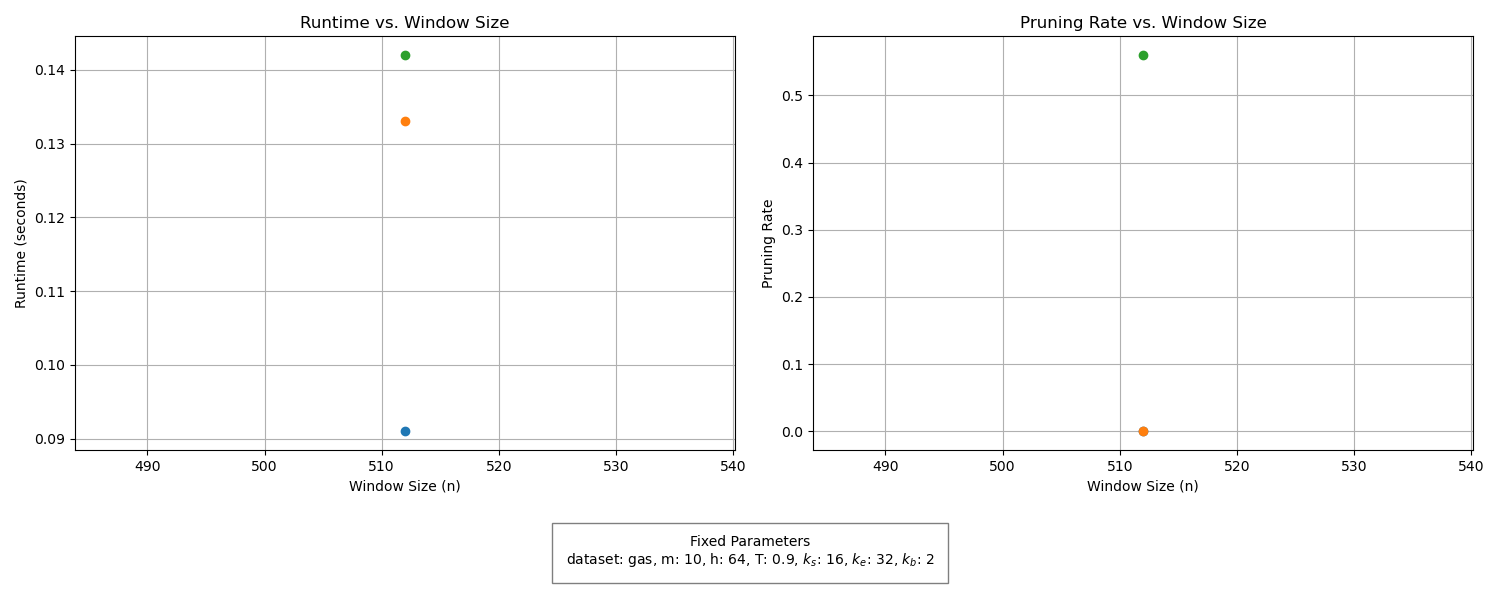
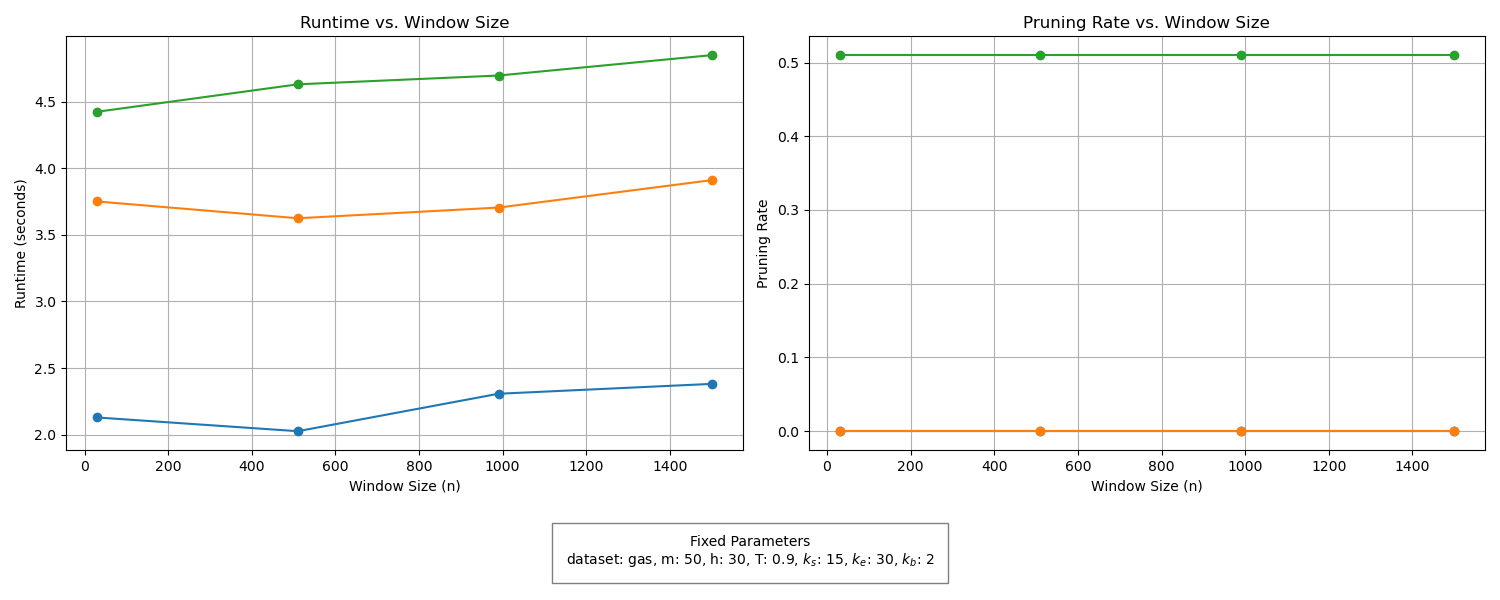
feat: automatic run, gas data, runtime vs. T, n and pr vs. T,n

diff --git a/code/brute_force_implementation/main.py b/code/brute_force_implementation/main.py
@@ -43,6 +43,10 @@ def gen_t_runtime_pr_data(perf_logger):
     corr_join_wrapper("chlorine", f"chlorine_0_run_{i}", perf_logger, m=50)
     corr_join_wrapper("chlorine", f"chlorine_0_run_{i}", perf_logger, m=50, algorithm_1=brute_force_p_corr)
     corr_join_wrapper("chlorine", f"chlorine_0_run_{i}", perf_logger, m=50, algorithm_1=brute_force_euc_dist)
+    # I use the same parameters with the gas dataset
+    corr_join_wrapper("gas", f"chlorine_0_run_{i}", perf_logger, m=50)
+    corr_join_wrapper("gas", f"chlorine_0_run_{i}", perf_logger, m=50, algorithm_1=brute_force_p_corr)
+    corr_join_wrapper("gas", f"chlorine_0_run_{i}", perf_logger, m=50, algorithm_1=brute_force_euc_dist)
 
 
 def gen_n_runtime_pr_data(perf_logger):
@@ -54,6 +58,10 @@ def gen_n_runtime_pr_data(perf_logger):
     corr_join_wrapper("chlorine", f"chlorine_1_run_{i}", perf_logger, m=50)
     corr_join_wrapper("chlorine", f"chlorine_1_run_{i}", perf_logger, m=50, algorithm_1=brute_force_p_corr)
     corr_join_wrapper("chlorine", f"chlorine_1_run_{i}", perf_logger, m=50, algorithm_1=brute_force_euc_dist)
+    # I use the same parameters with the gas dataset
+    corr_join_wrapper("gas", f"chlorine_1_run_{i}", perf_logger, m=50)
+    corr_join_wrapper("gas", f"chlorine_1_run_{i}", perf_logger, m=50, algorithm_1=brute_force_p_corr)
+    corr_join_wrapper("gas", f"chlorine_1_run_{i}", perf_logger, m=50, algorithm_1=brute_force_euc_dist)
 
 
 def gen_perf_data():

diff --git a/code/brute_force_implementation/plot.py b/code/brute_force_implementation/plot.py
@@ -167,9 +167,9 @@ def n_runtime_pr(df, ds_name: str, m: int, params):
 def main():
   df = pd.read_csv('./code/brute_force_implementation/logs/performance_log.csv')
   t_runtime_pr(df, "chlorine", 50, util.get_params("chlorine_0_plot_0"))
-  t_runtime_pr(df, "gas", 10, util.get_params("chlorine_params_1"))
+  t_runtime_pr(df, "gas", 50, util.get_params("chlorine_0_plot_0"))
   n_runtime_pr(df, "chlorine", 50, util.get_params("chlorine_1_plot_0"))
-  n_runtime_pr(df, "gas", 10, util.get_params("chlorine_params_1"))
+  n_runtime_pr(df, "gas", 50, util.get_params("chlorine_1_plot_0"))
 
 
 if __name__ == '__main__':
